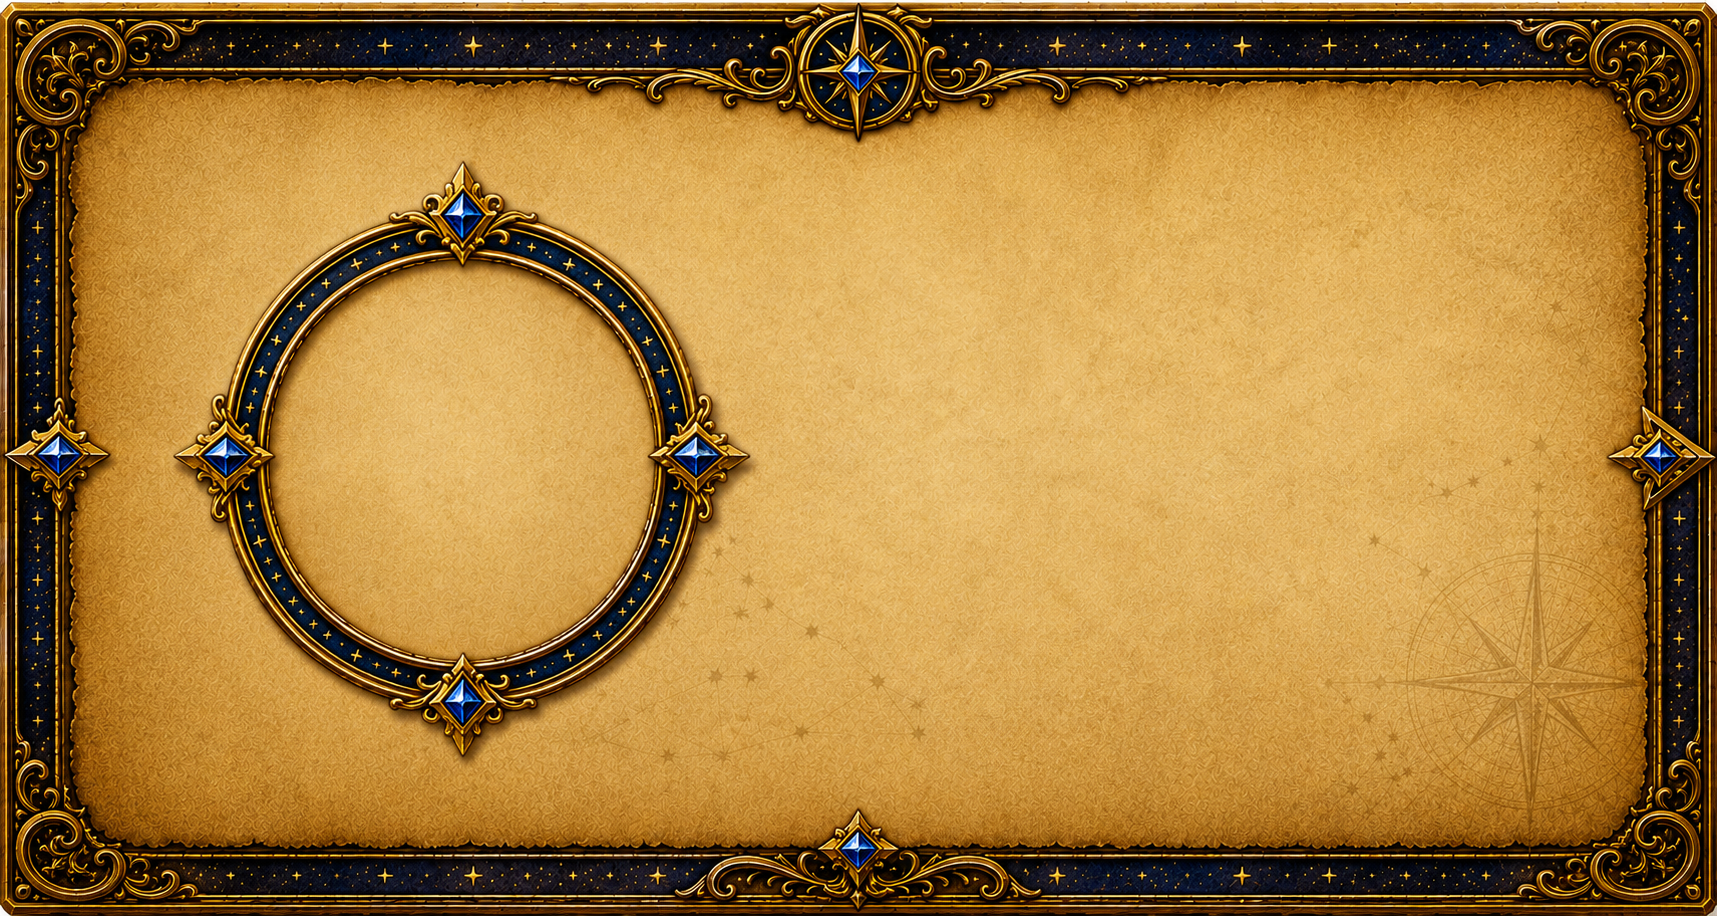
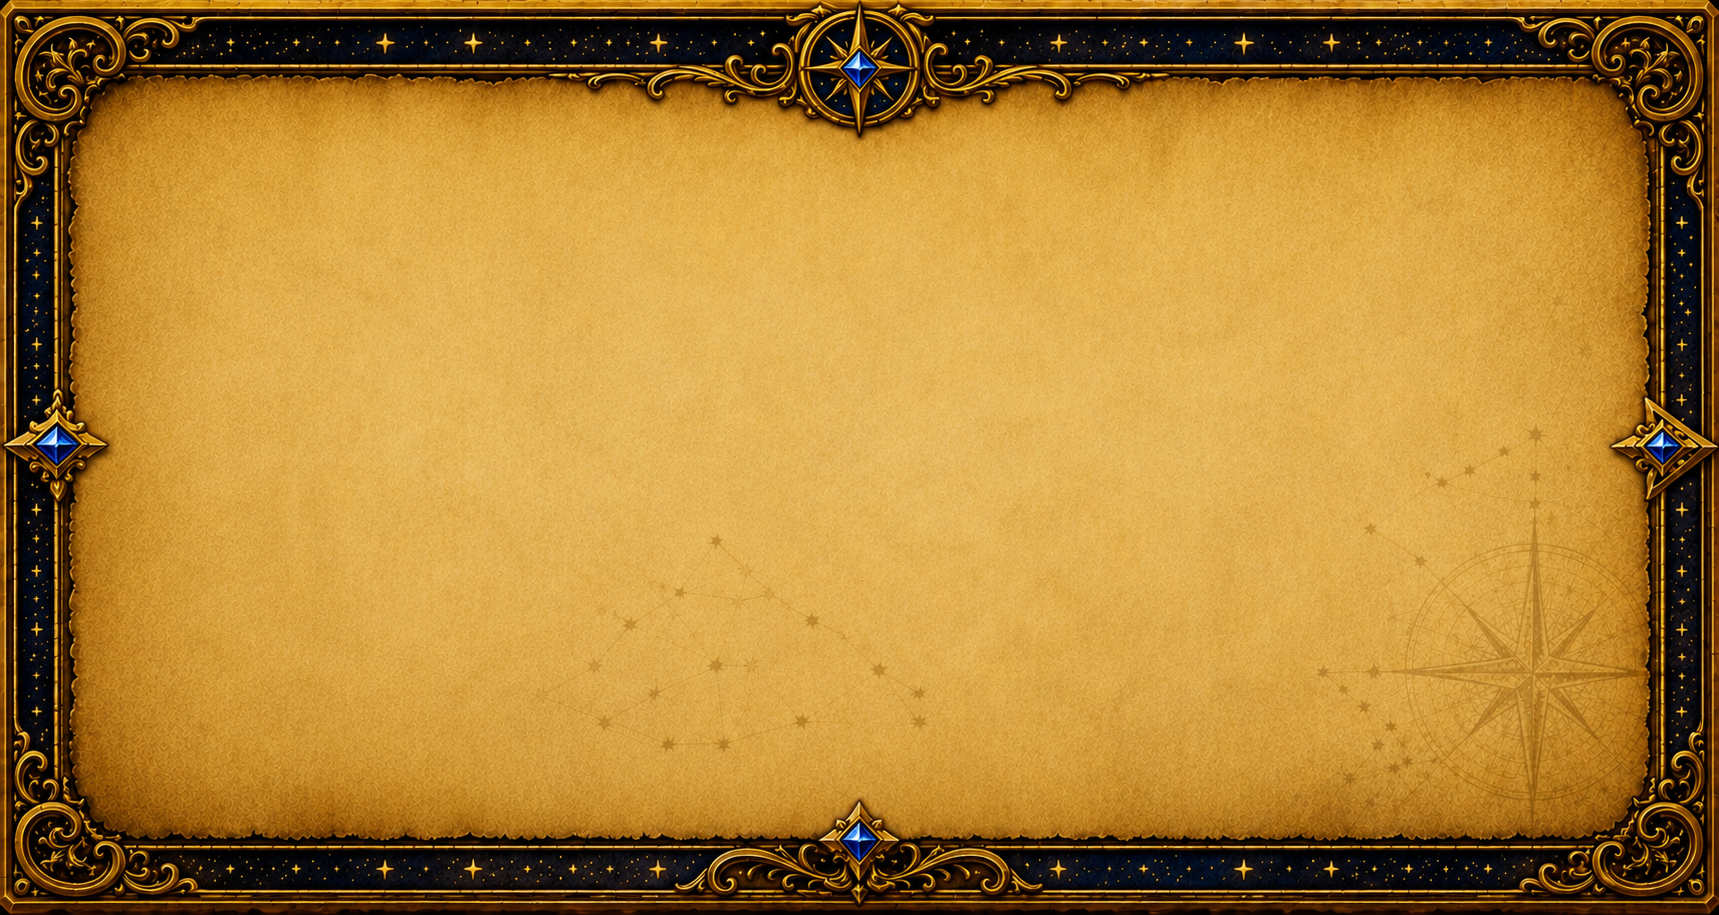
Update quest card: new flyer image, fix scroll row nowrap
- ui-quest-flyer-card.png: replace with latest version (v7 cache bust)
- quest-requirements: flex-wrap nowrap so scrolls never break to two lines
- quest-requirement: flex-shrink 1 so items scale down on narrow screens
  instead of overflowing

diff --git a/styles.css b/styles.css
@@ -4207,7 +4207,7 @@ button {
   padding: clamp(18px, 3vw, 25px) clamp(22px, 4vw, 40px) clamp(16px, 2.8vw, 24px);
   border: 0;
   color: #24170f;
-  background: transparent url("./assets/ui-quest-flyer-card.png?v=quest-ui-v6") center / 100% 100% no-repeat;
+  background: transparent url("./assets/ui-quest-flyer-card.png?v=quest-ui-v7") center / 100% 100% no-repeat;
   cursor: pointer;
   font-family: "Hiragino Mincho ProN", "YuMincho", "Yu Mincho", serif;
   text-align: left;
@@ -4362,16 +4362,17 @@ button {
 .quest-requirements {
   display: flex;
   gap: 6px;
-  flex-wrap: wrap;
+  flex-wrap: nowrap;
+  min-width: 0;
 }
 
 .quest-requirement {
   position: relative;
   display: block;
-  width: clamp(72px, 11vw, 96px);
+  flex: 0 1 clamp(48px, 11vw, 96px);
+  min-width: 32px;
   aspect-ratio: 1;
   background: transparent;
-  flex-shrink: 0;
 }
 
 .quest-requirement img {
@@ -4828,7 +4829,7 @@ button {
   align-items: center;
   padding: clamp(30px, 5vw, 50px) clamp(32px, 6vw, 62px);
   color: #291a10;
-  background: transparent url("./assets/ui-quest-flyer-card.png?v=quest-ui-v6") center / 100% 100% no-repeat;
+  background: transparent url("./assets/ui-quest-flyer-card.png?v=quest-ui-v7") center / 100% 100% no-repeat;
   filter:
     drop-shadow(0 6px 0 rgba(14, 7, 3, 0.6))
     drop-shadow(0 0 15px rgba(255, 219, 111, 0.2));
@@ -5343,7 +5344,7 @@ button {
   }
 
   .quest-requirement {
-    width: clamp(60px, 9.6vw, 80px);
+    flex-basis: clamp(40px, 9.6vw, 80px);
   }
 
   .quest-requirement b {
@@ -7200,7 +7201,7 @@ button {
 
 .quest-card {
   overflow: visible;
-  background-image: url("./assets/ui-quest-flyer-card.png?v=quest-ui-v6") !important;
+  background-image: url("./assets/ui-quest-flyer-card.png?v=quest-ui-v7") !important;
   background-size: 100% 100% !important;
   padding-inline: clamp(18px, 3.4vw, 34px);
 }